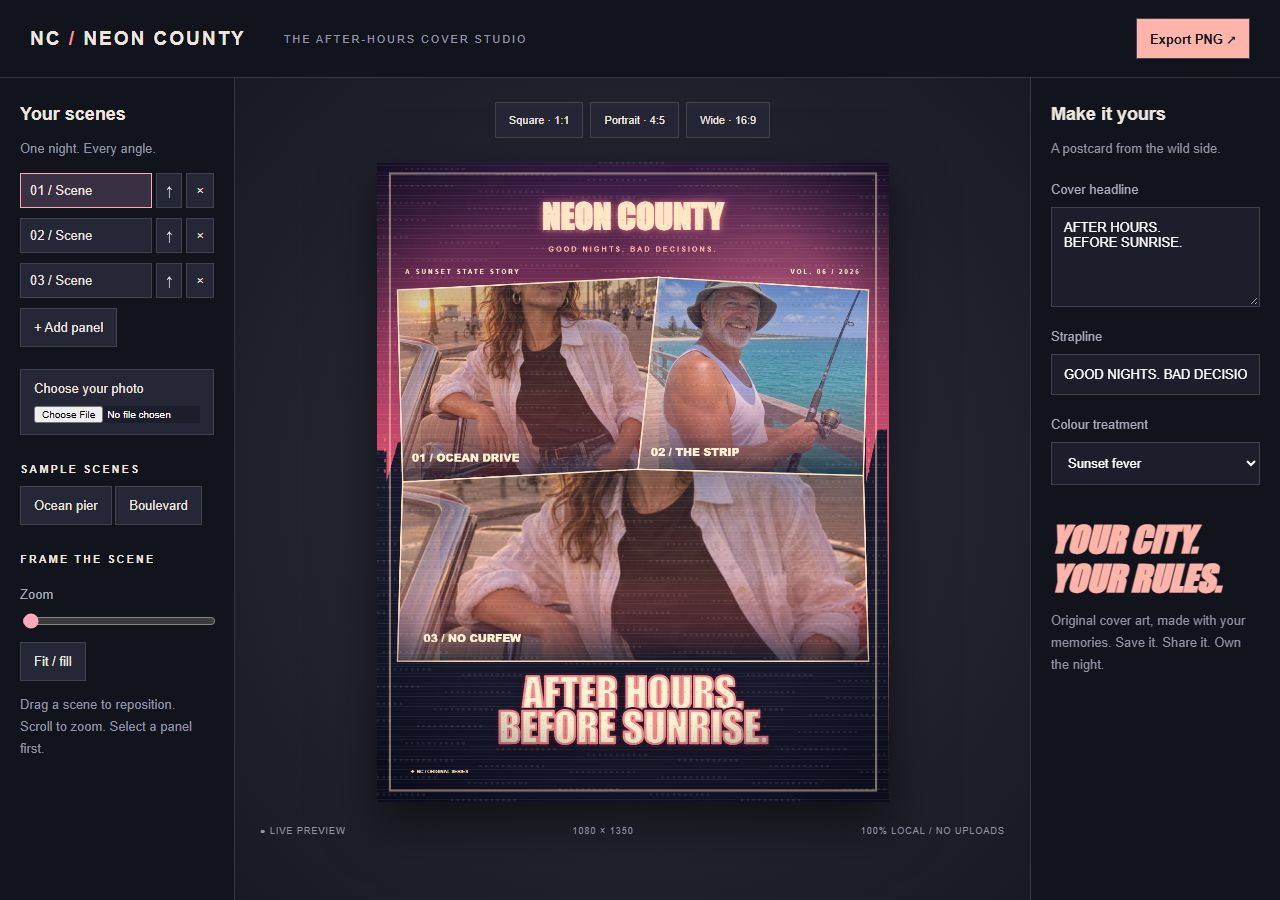
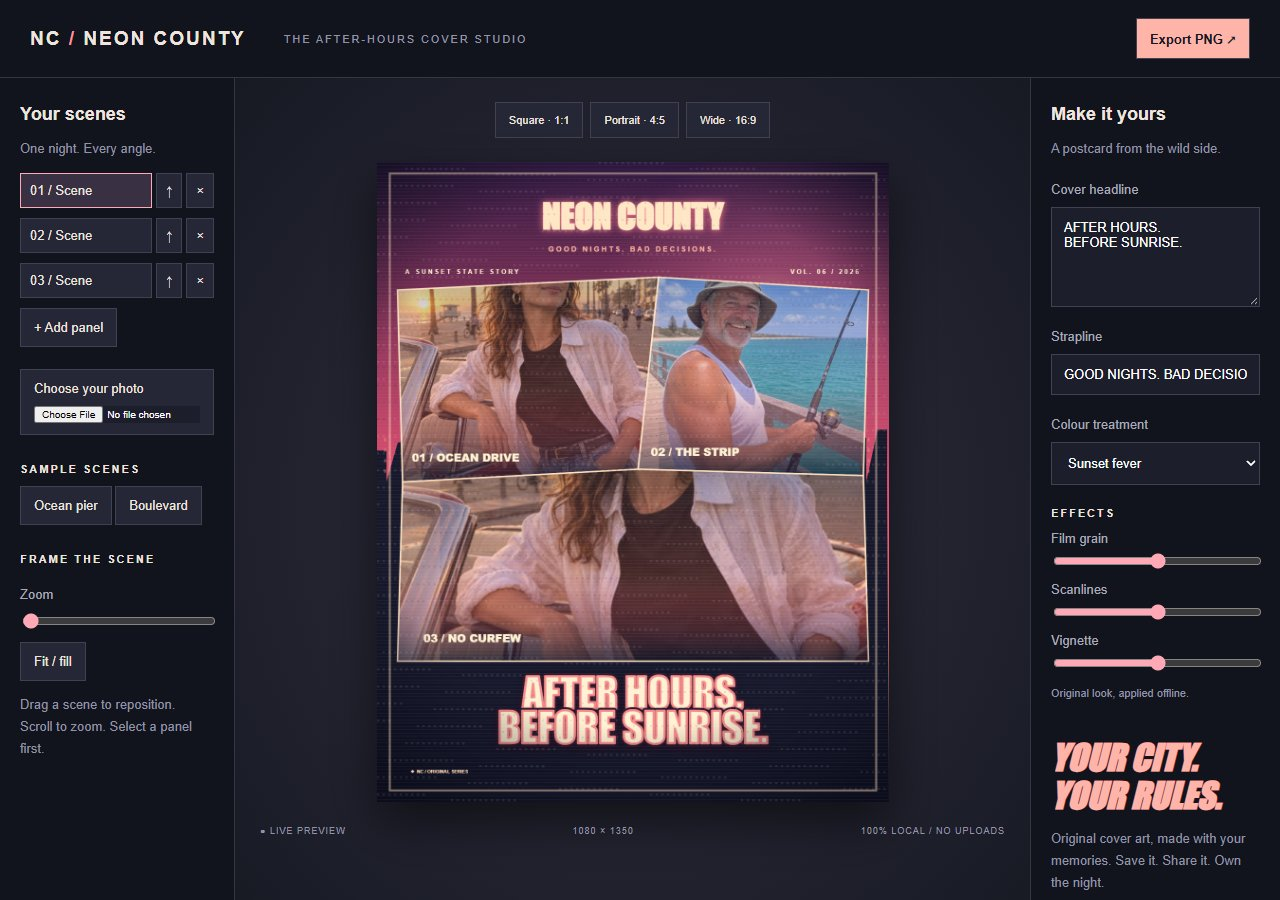
Add poster effects module (grain, scanlines, vignette, light leak) with live controls, and swap the duplicate portrait shot for a 1080x1080 square cover

diff --git a/app/src/cover-art.js b/app/src/cover-art.js
@@ -1,3 +1,5 @@
+import { drawGrain, drawScanlines, drawVignette, drawLightLeak } from './effects.js';
+
 const layouts = {
   1: [[ [0.04, 0.20], [0.96, 0.16], [0.94, 0.78], [0.06, 0.76] ]],
   2: [
@@ -192,48 +194,11 @@ export function drawMasthead(context, width, height, strap) {
   context.restore();
 }
 
-export function drawVignette(context, width, height) {
-  const vignette = context.createRadialGradient(
-    width / 2, height * 0.46, width * 0.22, width / 2, height * 0.46, width * 0.78,
-  );
-  vignette.addColorStop(0.55, '#090a1900');
-  vignette.addColorStop(1, '#080917bb');
-  context.fillStyle = vignette;
-  context.fillRect(0, 0, width, height);
-
-  context.save();
-  context.strokeStyle = '#ffdfbd77';
-  context.lineWidth = width * 0.004;
-  context.strokeRect(width * 0.025, height * 0.018, width * 0.95, height * 0.964);
-  context.fillStyle = '#ffd9b8';
-  context.font = `bold ${width * 0.009}px Arial`;
-  context.fillText('◆  NC / ORIGINAL SERIES', width * 0.065, height * 0.955);
-  context.restore();
-}
-
-export function drawGrain(context, width, height) {
-  context.save();
-  context.globalAlpha = 0.09;
-  for (let y = 0; y < height; y += 12) {
-    for (let x = 0; x < width; x += 12) {
-      const noise = ((x * 17 + y * 31) % 101) / 101;
-      if (noise > 0.52) {
-        context.fillStyle = noise > 0.77 ? '#fff' : '#100c23';
-        context.fillRect(x, y, 2 + noise * 3, 2 + noise * 3);
-      }
-    }
-  }
-  context.globalAlpha = 0.08;
-  context.fillStyle = '#fff';
-  for (let y = 0; y < height; y += 7) context.fillRect(0, y, width, 1);
-  context.restore();
-}
-
 export function render(canvas, state) {
   const { width, height } = state;
   canvas.width = width;
   canvas.height = height;
-  const context = canvas.getContext('2d');
+  const context = canvas.getContext('2d', { willReadFrequently: true });
   drawGradientSky(context, width, height, state.grade);
   drawSilhouetteSkyline(context, width, height);
   const panelPolygons = regions(state.panels.length);
@@ -242,6 +207,17 @@ export function render(canvas, state) {
   });
   drawMasthead(context, width, height, state.strap);
   drawCaption(context, state.caption, width, height);
-  drawVignette(context, width, height);
-  drawGrain(context, width, height);
+  drawVignette(context, width, height, state.vignette ?? 1);
+  context.save();
+  context.strokeStyle = '#ffdfbd77';
+  context.lineWidth = width * 0.004;
+  context.strokeRect(width * 0.025, height * 0.018, width * 0.95, height * 0.964);
+  context.fillStyle = '#ffd9b8';
+  context.font = `bold ${width * 0.009}px Arial`;
+  context.fillText('◆  NC / ORIGINAL SERIES', width * 0.065, height * 0.955);
+  context.restore();
+  drawGrain(context, width, height, state.grain ?? 1);
+  drawScanlines(context, width, height, state.scanlines ?? 1, "#fff");
+  drawLightLeak(context, width, height, state.lightLeak ?? 0, "#ffb476");
 }
+

diff --git a/app/src/effects.js b/app/src/effects.js
@@ -1,0 +1,49 @@
+// Deterministic fixed-coordinate grain; strengths scale the original finish.
+export function drawVignette(context, width, height, strength) {
+  context.save();
+  context.globalAlpha = Math.max(0, strength);
+  const vignette = context.createRadialGradient(
+    width / 2, height * 0.46, width * 0.22, width / 2, height * 0.46, width * 0.78,
+  );
+  vignette.addColorStop(0.55, '#090a1900');
+  vignette.addColorStop(1, '#080917bb');
+  context.fillStyle = vignette;
+  context.fillRect(0, 0, width, height);
+
+  context.restore();
+}
+
+export function drawGrain(context, width, height, strength) {
+  context.save();
+  context.globalAlpha = 0.09 * Math.max(0, strength);
+  for (let y = 0; y < height; y += 12) {
+    for (let x = 0; x < width; x += 12) {
+      const noise = ((x * 17 + y * 31) % 101) / 101;
+      if (noise > 0.52) {
+        context.fillStyle = noise > 0.77 ? '#fff' : '#100c23';
+        context.fillRect(x, y, 2 + noise * 3, 2 + noise * 3);
+      }
+    }
+  }
+  context.restore();
+}
+
+export function drawScanlines(ctx, w, h, strength, colour) {
+  ctx.save();
+  ctx.globalAlpha = 0.08 * Math.max(0, strength);
+  ctx.fillStyle = colour;
+  for (let y = 0; y < h; y += 7) ctx.fillRect(0, y, w, 1);
+  ctx.restore();
+}
+
+export function drawLightLeak(ctx, w, h, strength, colour) {
+  if (strength <= 0) return;
+  ctx.save();
+  ctx.globalAlpha = Math.min(1, strength);
+  const glow = ctx.createRadialGradient(0, h * .3, 0, 0, h * .3, w * .7);
+  glow.addColorStop(0, colour);
+  glow.addColorStop(1, 'transparent');
+  ctx.fillStyle = glow;
+  ctx.fillRect(0, 0, w, h);
+  ctx.restore();
+}

diff --git a/app/index.html b/app/index.html
@@ -55,6 +55,13 @@ BEFORE SUNRISE.</textarea></label>
             <option value="gold">Golden hour</option>
           </select>
         </label>
+        <section class="effects" aria-labelledby="effects-title">
+          <h3 id="effects-title">Effects</h3>
+          <label>Film grain<input id="grain" type="range" min="0" max="2" step="0.01" value="1"></label>
+          <label>Scanlines<input id="scanlines" type="range" min="0" max="2" step="0.01" value="1"></label>
+          <label>Vignette<input id="vignette" type="range" min="0" max="2" step="0.01" value="1"></label>
+          <p>Original look, applied offline.</p>
+        </section>
         <div class="note">YOUR CITY.<br>YOUR RULES.</div>
         <p>Original cover art, made with your memories. Save it. Share it. Own the night.</p>
         <div id="result"></div>

diff --git a/app/src/app.js b/app/src/app.js
@@ -8,6 +8,10 @@ const state = {
   caption: $('#caption').value,
   strap: $('#strap').value,
   grade: 'sunset',
+  grain: 1,
+  scanlines: 1,
+  vignette: 1,
+  lightLeak: 0,
   panels: [],
   selected: 0,
 };
@@ -212,6 +216,14 @@ async function exportCover(download = true) {
 
 $('#export').onclick = () => exportCover();
 window.coverStudio = { state, draw: drawPoster, exportCover };
+
+
+for (const field of ["grain", "scanlines", "vignette"]) {
+  document.getElementById(field).oninput = (event) => {
+    state[field] = Number(event.target.value);
+    drawPoster();
+  };
+}
 
 const query = new URLSearchParams(location.search);
 if (query.has('size')) {

diff --git a/app/style.css b/app/style.css
@@ -235,3 +235,8 @@ body.cover > script {
     display: none;
   }
 }
+
+.effects h3 { margin-top: 22px; }
+.effects label { margin: 12px 0; }
+.effects input { margin-top: 6px; }
+.effects p { font-size: 11px; }
